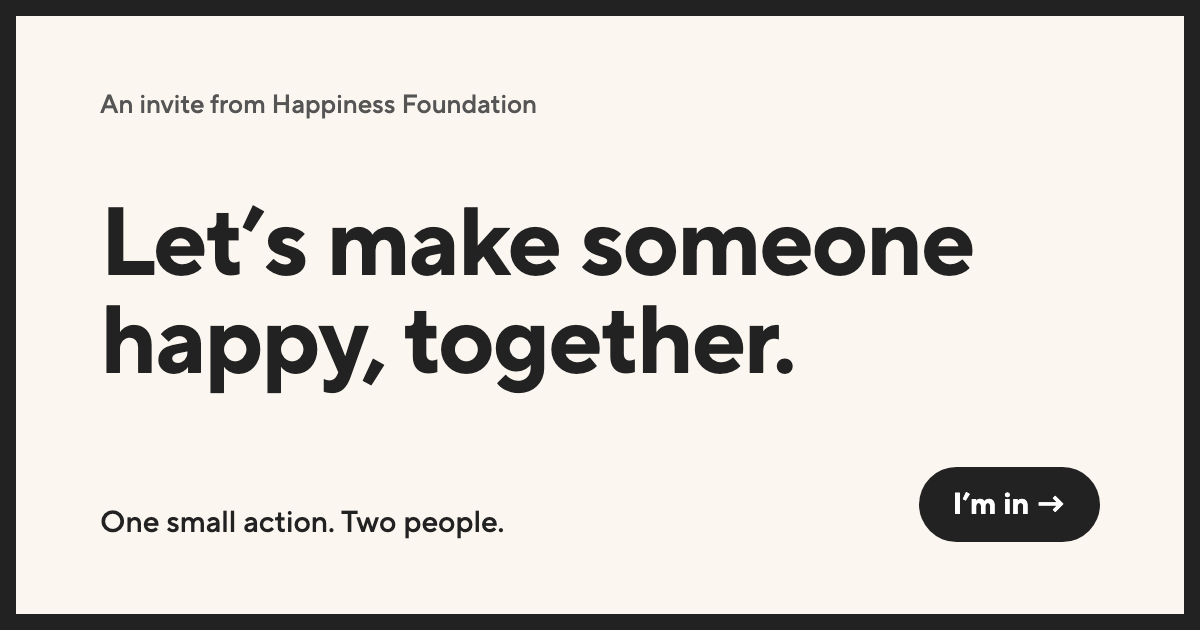
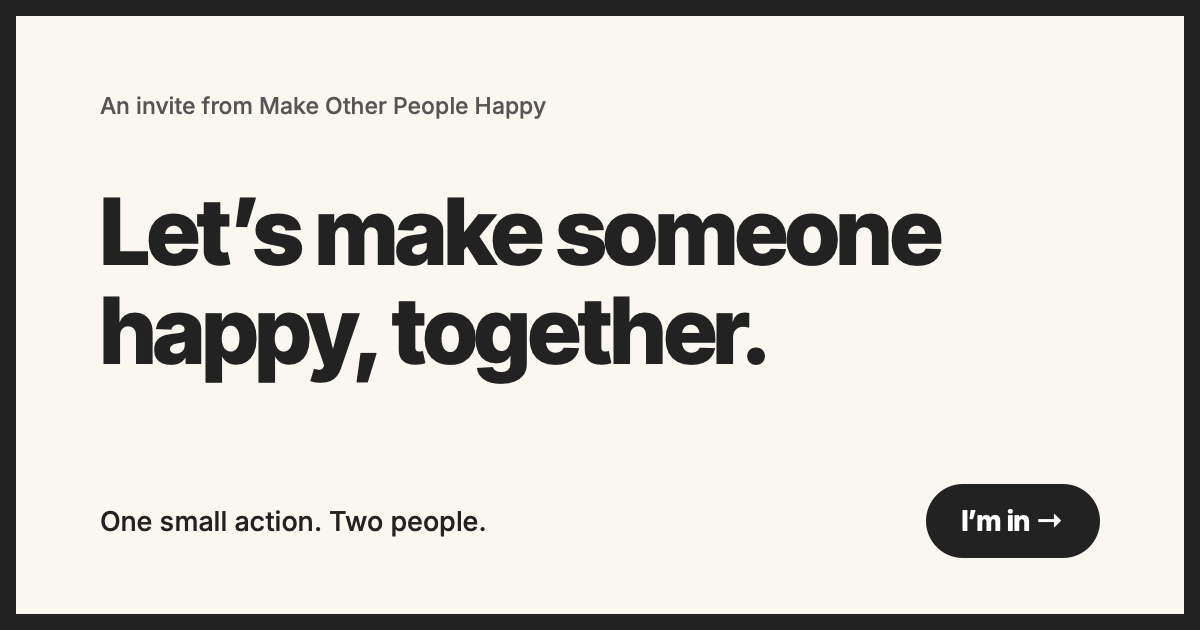
Rename to Make Other People Happy (#111)
- Interface text, emails, share images and the share-card logo use the new name and logo
- Code comments, README and the brief follow; old migrations are left as history

diff --git a/site/product-page-embed.html b/site/product-page-embed.html
@@ -1,2 +1,2 @@
 <!-- Products Template embed: live price, variants and Add to cart (Shopify Storefront Web Components), plus Product JSON-LD. Sits right under the title. Keep in sync with Webflow. -->
-<style>.hf-product-price{margin:4px 0 12px;font-size:24px;font-weight:500}#hf-product .hf-button-row{margin-top:16px}#hf-product button[disabled]{display:none}</style><div id="hf-product"></div><script>(function(){var D='r40e0y-zs.myshopify.com';var h=location.pathname.split('/').filter(Boolean).pop();var s=document.createElement('script');s.type='module';s.src='https://cdn.shopify.com/storefront/web-components.js';document.head.appendChild(s);var img=document.querySelector('h1 ~ img[src]:not(.w-dyn-bind-empty)');var media=img?'':'<shopify-media query="product.selectedOrFirstAvailableVariant.image" width="400" height="400"></shopify-media>';document.getElementById('hf-product').innerHTML=`<shopify-store store-domain="${D}" country="US" language="en"></shopify-store><shopify-cart id="hf-cart"></shopify-cart><shopify-context type="product" handle="${h}"><template>${media}<p class="hf-product-price"><shopify-money query="product.selectedOrFirstAvailableVariant.price"></shopify-money></p><shopify-variant-selector></shopify-variant-selector><div class="hf-button-row"><button type="button" class="hf-button" onclick="document.getElementById('hf-cart').addLine(event).showModal()" shopify-attr--disabled="!product.selectedOrFirstAvailableVariant.availableForSale">Add to cart</button></div></template></shopify-context>`;fetch('https://'+D+'/api/2026-01/graphql.json',{method:'POST',headers:{'Content-Type':'application/json'},body:JSON.stringify({query:'query($h:String!){product(handle:$h){title description featuredImage{url} variants(first:1){nodes{availableForSale price{amount currencyCode}}}}}',variables:{h:h}})}).then(function(r){return r.json()}).then(function(j){var p=j&&j.data&&j.data.product;if(!p)return;var v=p.variants.nodes[0];var h1=document.querySelector('h1');var ld={'@context':'https://schema.org','@type':'Product',name:h1?h1.textContent.trim():p.title,description:p.description,image:img?img.src:(p.featuredImage?p.featuredImage.url:undefined),brand:{'@type':'Brand',name:'Happiness Foundation'},offers:{'@type':'Offer',url:location.origin+location.pathname,price:v.price.amount,priceCurrency:v.price.currencyCode,availability:'https://schema.org/'+(v.availableForSale?'InStock':'OutOfStock')}};var e=document.createElement('script');e.type='application/ld+json';e.textContent=JSON.stringify(ld);document.head.appendChild(e)}).catch(function(){})})();</script>
+<style>.hf-product-price{margin:4px 0 12px;font-size:24px;font-weight:500}#hf-product .hf-button-row{margin-top:16px}#hf-product button[disabled]{display:none}</style><div id="hf-product"></div><script>(function(){var D='r40e0y-zs.myshopify.com';var h=location.pathname.split('/').filter(Boolean).pop();var s=document.createElement('script');s.type='module';s.src='https://cdn.shopify.com/storefront/web-components.js';document.head.appendChild(s);var img=document.querySelector('h1 ~ img[src]:not(.w-dyn-bind-empty)');var media=img?'':'<shopify-media query="product.selectedOrFirstAvailableVariant.image" width="400" height="400"></shopify-media>';document.getElementById('hf-product').innerHTML=`<shopify-store store-domain="${D}" country="US" language="en"></shopify-store><shopify-cart id="hf-cart"></shopify-cart><shopify-context type="product" handle="${h}"><template>${media}<p class="hf-product-price"><shopify-money query="product.selectedOrFirstAvailableVariant.price"></shopify-money></p><shopify-variant-selector></shopify-variant-selector><div class="hf-button-row"><button type="button" class="hf-button" onclick="document.getElementById('hf-cart').addLine(event).showModal()" shopify-attr--disabled="!product.selectedOrFirstAvailableVariant.availableForSale">Add to cart</button></div></template></shopify-context>`;fetch('https://'+D+'/api/2026-01/graphql.json',{method:'POST',headers:{'Content-Type':'application/json'},body:JSON.stringify({query:'query($h:String!){product(handle:$h){title description featuredImage{url} variants(first:1){nodes{availableForSale price{amount currencyCode}}}}}',variables:{h:h}})}).then(function(r){return r.json()}).then(function(j){var p=j&&j.data&&j.data.product;if(!p)return;var v=p.variants.nodes[0];var h1=document.querySelector('h1');var ld={'@context':'https://schema.org','@type':'Product',name:h1?h1.textContent.trim():p.title,description:p.description,image:img?img.src:(p.featuredImage?p.featuredImage.url:undefined),brand:{'@type':'Brand',name:'Make Other People Happy'},offers:{'@type':'Offer',url:location.origin+location.pathname,price:v.price.amount,priceCurrency:v.price.currencyCode,availability:'https://schema.org/'+(v.availableForSale?'InStock':'OutOfStock')}};var e=document.createElement('script');e.type='application/ld+json';e.textContent=JSON.stringify(ld);document.head.appendChild(e)}).catch(function(){})})();</script>

diff --git a/public/hf-pages.js b/public/hf-pages.js
@@ -1,5 +1,5 @@
 /*
- * Happiness Foundation: page features, loaded by /join/hf-backend.js on every
+ * Make Other People Happy: page features, loaded by /join/hf-backend.js on every
  * page. Each part runs only on the page whose elements it finds:
  *
  *   Action page      #hf-did-this        done, again, undo, save, invite, pass it on, stories
@@ -338,14 +338,14 @@
     var ink = cssVar(CARD.ink, '#fff'), soft = cssVar(CARD.soft, '#cfe0f2');
     x.fillStyle = cssVar(CARD.bg, '#2e5e8e');
     x.fillRect(0, 0, CARD.w, CARD.h);
-    // The logo: the foundation's own file, unchanged, on a white label (never redrawn or recoloured).
+    // The logo: the supplied stacked logo file, unchanged, on a white label (never redrawn or recoloured).
     if (o.logo && o.logo.naturalWidth) {
-      var lh0 = 64, lw0 = Math.round((o.logo.naturalWidth / o.logo.naturalHeight) * lh0), padIn = 28;
+      var ratio = o.logo.naturalWidth / o.logo.naturalHeight, lh0 = ratio < 2 ? 200 : 64, lw0 = Math.round(ratio * lh0), padIn = 28;
       x.fillStyle = '#ffffff';
       roundRect(x, CARD.pad, CARD.pad, lw0 + padIn * 2, lh0 + padIn * 2, 28);
       x.drawImage(o.logo, CARD.pad + padIn, CARD.pad + padIn, lw0, lh0);
     } else {
-      x.fillStyle = ink; x.font = '600 40px ' + body; x.textBaseline = 'middle'; x.fillText('Happiness Foundation', CARD.pad, CARD.pad + 60);
+      x.fillStyle = ink; x.font = '600 40px ' + body; x.textBaseline = 'middle'; x.fillText(copyText('site-name'), CARD.pad, CARD.pad + 60);
     }
     // The line: as large as fits, balanced.
     var max = CARD.w - CARD.pad * 2, size = 132, lines;
@@ -1119,7 +1119,7 @@
       if (dl) dl.addEventListener('click', function (e) {
         e.preventDefault();
         var blob = new Blob([JSON.stringify(accountMe, null, 2)], { type: 'application/json' });
-        var a = el('a', { href: URL.createObjectURL(blob), download: 'happiness-foundation-my-data.json' });
+        var a = el('a', { href: URL.createObjectURL(blob), download: 'make-other-people-happy-my-data.json' });
         document.body.appendChild(a);
         a.click();
         a.remove();

diff --git a/tests/pages.test.ts b/tests/pages.test.ts
@@ -437,7 +437,7 @@ describe('Sign-in window', () => {
   async function authPage() {
     const field = (n: string, type: string) => `<div data-hf-show="auth-f-${n}"><label for="hfp-auth-${n}">${n}</label><input id="hfp-auth-${n}" class="hf-form-input" type="${type}" name="${n}" data-hf-field="${n}"></div>`;
     const link = (show: string, to: string, text: string) => `<a href="#" data-hf-act="auth-to" data-hf-to="${to}" data-hf-show="auth-l-${show}">${text}</a>`;
-    const AUTH_HTML = `<footer><dialog id="hfp-auth" class="hf-auth" data-hf-auth="1"><a href="#" data-hf-act="auth-close" aria-label="Close">×</a><img class="hf-auth-logo" src="https://site.test/logo.png" alt="Happiness Foundation">
+    const AUTH_HTML = `<footer><dialog id="hfp-auth" class="hf-auth" data-hf-auth="1"><a href="#" data-hf-act="auth-close" aria-label="Close">×</a><img class="hf-auth-logo" src="https://site.test/logo.png" alt="Make Other People Happy">
       <p id="hfp-auth-title" data-hf-fill="auth-title">Sign in</p>
       <div data-hf-show="auth-providers"><a href="#" data-hf-act="auth-google"><span>Continue with Google</span></a><a href="#" data-hf-act="auth-otp"><span>Email me a sign-in code</span></a><div><span>or</span></div></div>
       <div class="w-form"><form data-hf-form="auth" novalidate>${field('first-name', 'text')}${field('email', 'email')}${field('code', 'text')}${field('password', 'password')}${field('password-new', 'password')}<button type="submit" data-hf-fill="auth-go">Sign in</button><p data-hf-fill="auth-msg"></p></form><div class="w-form-done">Thank you</div><div class="w-form-fail">Oops</div></div>

diff --git a/timer/index.js b/timer/index.js
@@ -1,4 +1,4 @@
-// Happiness Foundation timer: a Cloudflare Worker that runs every 5 minutes
+// Make Other People Happy timer: a Cloudflare Worker that runs every 5 minutes
 // (Cron Trigger) and asks the backend to do its scheduled jobs. Replaces the
 // GitHub Actions timer, which ran late and pauses after 60 quiet days.
 //
@@ -19,14 +19,14 @@ export default {
   },
   // Visiting the worker's address shows that it is alive; it never runs the jobs.
   async fetch() {
-    return new Response('Happiness Foundation timer. Runs every 5 minutes.', { headers: { 'Content-Type': 'text/plain' } });
+    return new Response('Make Other People Happy timer. Runs every 5 minutes.', { headers: { 'Content-Type': 'text/plain' } });
   },
 };
 
 async function call(url, env) {
   return fetch(url, {
     method: 'POST',
-    headers: { Authorization: `Bearer ${env.JOBS_SECRET}`, 'User-Agent': 'HappinessFoundationTimer/1.1' },
+    headers: { Authorization: `Bearer ${env.JOBS_SECRET}`, 'User-Agent': 'MakeOtherPeopleHappyTimer/1.1' },
   });
 }
 

diff --git a/src/core/http.ts b/src/core/http.ts
@@ -63,7 +63,7 @@ export async function callUpstream(
 ): Promise<Response> {
   // Some services refuse requests that do not say what they are.
   const headers = new Headers(init.headers);
-  if (!headers.has('User-Agent')) headers.set('User-Agent', 'HappinessFoundationBackend/1.0 (+https://www.makeotherpeoplehappy.com)');
+  if (!headers.has('User-Agent')) headers.set('User-Agent', 'MakeOtherPeopleHappyBackend/1.0 (+https://www.makeotherpeoplehappy.com)');
   try {
     return await doFetch(url, { ...init, headers, signal: AbortSignal.timeout(timeoutMs) });
   } catch (e) {

diff --git a/tests/harness.ts b/tests/harness.ts
@@ -494,7 +494,7 @@ export async function createHarness(): Promise<Harness> {
     RESEND_API_KEY: 're_test',
     MEMBERSTACK_SECRET_KEY: 'sk_sb_test',
     MEMBERSTACK_WEBHOOK_SECRET: 'whsec_' + btoa('memberstack-webhook-secret'),
-    EMAIL_FROM: 'Happiness Foundation <team@makeotherpeoplehappy.com>',
+    EMAIL_FROM: 'Make Other People Happy <team@makeotherpeoplehappy.com>',
     ERROR_EMAIL_TO: 'mickey@example.com',
     TURNSTILE_SECRET_KEY: 'ts_secret',
     JOBS_SECRET: 'jobs_secret',

diff --git a/public/hf-backend.js b/public/hf-backend.js
@@ -1,5 +1,5 @@
 /*
- * Happiness Foundation backend helper for the Webflow site, loaded by the
+ * Make Other People Happy backend helper for the Webflow site, loaded by the
  * site's loader script. Sign-in is Memberstack's (its script is in the site
  * head; window.$memberstackDom); window.HF below wraps it for the site.
  *   <script src="/join/hf-backend.js" data-turnstile-sitekey="..." defer></script>

diff --git a/src/core/env.ts b/src/core/env.ts
@@ -26,7 +26,7 @@ export interface Env {
   WEBFLOW_API_TOKEN: string;
 
   RESEND_API_KEY: string;
-  /** e.g. Happiness Foundation <team@makeotherpeoplehappy.com> (a domain verified in Resend) */
+  /** e.g. Make Other People Happy <team@makeotherpeoplehappy.com> (a domain verified in Resend) */
   EMAIL_FROM: string;
   /** Where error reports go. */
   ERROR_EMAIL_TO: string;

diff --git a/src/core/config.ts b/src/core/config.ts
@@ -1,4 +1,4 @@
-// Fixed IDs from the Happiness Foundation Webflow site. These are not
+// Fixed IDs from the Make Other People Happy Webflow site. These are not
 // secrets; keys and tokens are read from environment variables (see env.ts).
 
 /** The foundation site's Memberstack app (public ID; tokens from other apps are refused). */

diff --git a/public/lab.js b/public/lab.js
@@ -1,5 +1,5 @@
 /*
- * /lab: live KPIs for Happiness Foundation. Loaded by the Webflow page /lab.
+ * /lab: live KPIs for Make Other People Happy. Loaded by the Webflow page /lab.
  * Shows nothing until an allow-listed account is signed in; the numbers come
  * from GET /join/api/lab/kpis and refresh every minute.
  */

diff --git a/src/core/features/ops.ts b/src/core/features/ops.ts
@@ -184,7 +184,7 @@ export async function addLabAccess(env: Env, deps: Deps, by: string, input: { em
           '',
           'If you did not expect this, you can ignore this email.',
           '',
-          'Happiness Foundation',
+          'Make Other People Happy',
         ].join('\n'),
       },
     }).run();

diff --git a/BRIEF.md b/BRIEF.md
@@ -1,10 +1,10 @@
-# Happiness Foundation backend: Build brief
+# Make Other People Happy backend: Build brief
 
 Nov 15, 2026 · @Mickey
 
 ## Purpose and principles
 
-One small backend on Webflow Cloud gives the Happiness Foundation site a shared place for data that no single member owns: Suggestions, stories, counts, pledges and invites. It is built in four phases, and each phase ships something members can use.
+One small backend on Webflow Cloud gives the Make Other People Happy site a shared place for data that no single member owns: Suggestions, stories, counts, pledges and invites. It is built in four phases, and each phase ships something members can use.
 
 This brief is written for Claude Code. It covers what to build, the rules for every edge case agreed with Mickey, and the checks that define done. Nothing in it is built yet.
 
@@ -25,7 +25,7 @@ The site is a Webflow test site with Shopify behind it for accounts and the shop
 
 | Part | Detail |
 | --- | --- |
-| Webflow site | Happiness Foundation, site ID `6af7e827a9216ac8b164c1cb`, test address happiness-foundation.webflow.io |
+| Webflow site | Make Other People Happy, site ID `6af7e827a9216ac8b164c1cb`, test address happiness-foundation.webflow.io |
 | Shopify store | `r40e0y-zs.myshopify.com`, new customer accounts, Storefront Web Components cart |
 | Sign-in | Shopify Customer Account API, run from the site through a global `HF` helper (`token`, `signin`, `finish`, `api`, `load`, `sync`, `signout`) |
 | Done actions | Customer metafield `custom.actions_taken`, a JSON list of `{idea: <action slug>, date}` |
@@ -54,7 +54,7 @@ Two things to fix as part of the build:
 Six things must exist before any code can be deployed. The accounts and keys are Mickey's to set up; none of the keys go into a chat.
 
 - [ ] A GitHub account and an empty repository for the backend.
-- [ ] A Webflow Cloud app created from the Happiness Foundation site settings and connected to that repository.
+- [ ] A Webflow Cloud app created from the Make Other People Happy site settings and connected to that repository.
 - [ ] A Shopify app with read access to customers, orders, products and inventory, and write access to customers. Its key is stored in the Webflow Cloud app's settings.
 - [ ] A Webflow API token for the site with CMS read and write access, stored the same way.
 - [ ] An email sending service set up on the makeotherpeoplehappy.com domain. Webflow Cloud does not send email itself, as far as we know.
